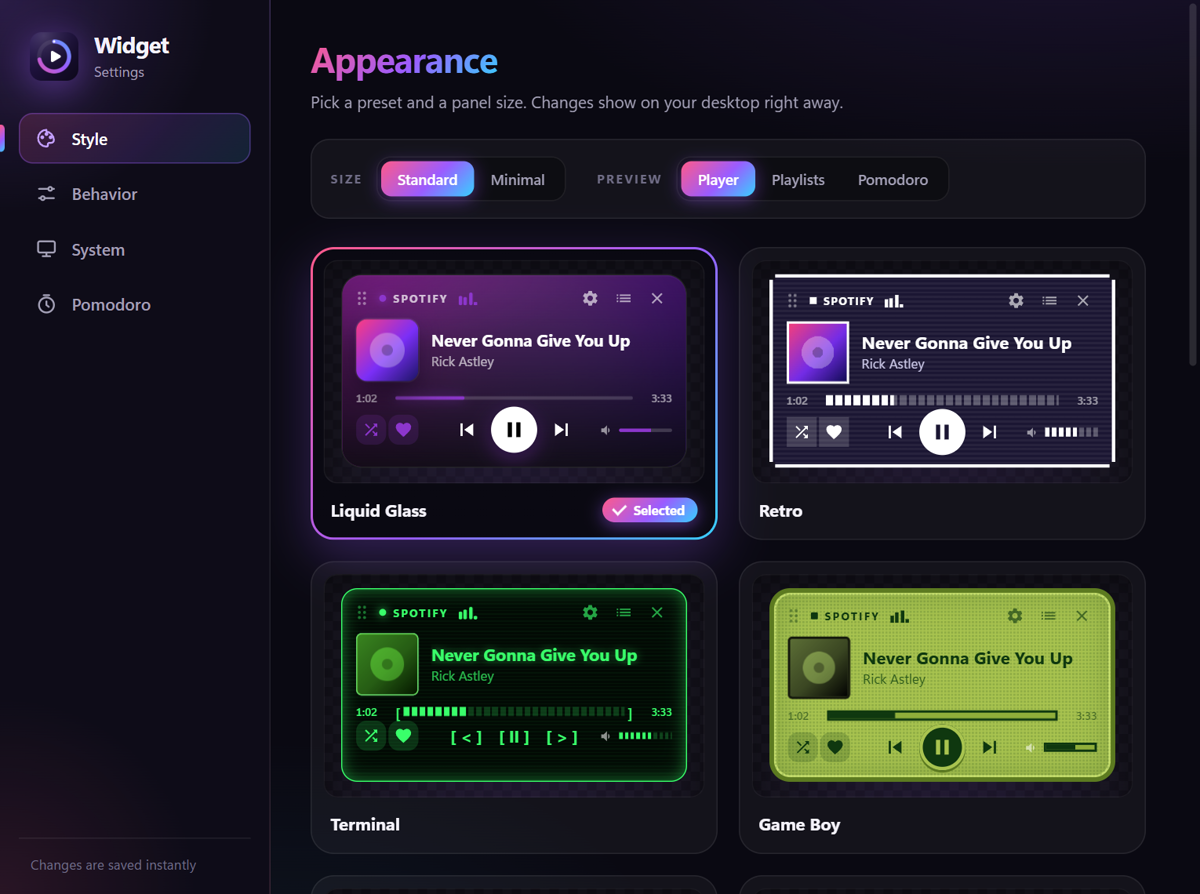
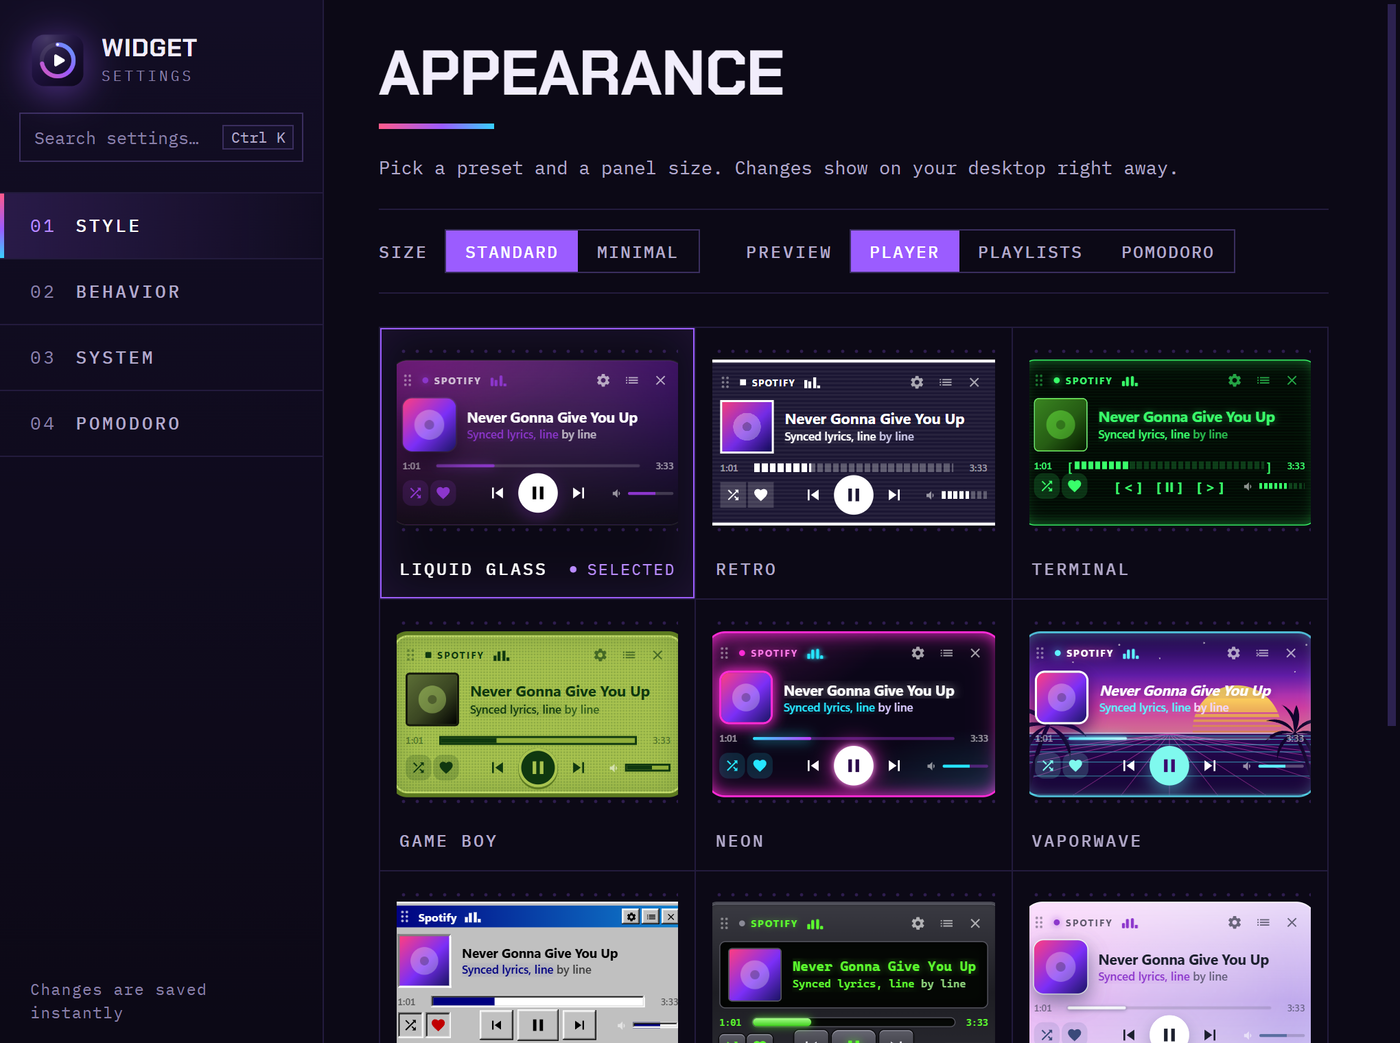
Refresh README with new hero image, lyrics and preset GIFs and settings screenshots
- new hero collage in the violet Signal brand and new screenshots of the redesigned settings window
- new lyrics.gif (word-by-word highlighting, long lines split into timed parts) and updated preset demo.gif
- updated English and Polish feature descriptions for synced lyrics
- demo images use placeholder lyric text, not real song lyrics

diff --git a/README.md b/README.md
@@ -6,7 +6,7 @@
 
 English · [Polski ↓](#polski)
 
-![Spotify Widget in four of its twelve styles](docs/img/hero.png)
+![Spotify Widget: a tiny always-on-top Spotify player, shown in six of its twelve styles](docs/img/hero.png)
 
 </div>
 
@@ -28,11 +28,15 @@ and **12 visual presets in 2 layouts**. It lives in the system tray, starts with
 - **Like button (♥)**: adds/removes the current track from your Liked Songs.
 - **12 styles × 2 layouts** (standard and minimal): Liquid Glass, Retro, Terminal, Game Boy, Neon, Vaporwave, Win98, Winamp, Glass, Y2K, Sakura, Higanbana.
 - **Pomodoro timer** that runs in the background, with presets (25/5, 45/15, 50/10, 90/20), sounds and optional focus music.
-- **Synced lyrics** (optional, off by default): the current line of the song replaces the artist line with a soft animation, fills with the accent colour in time with the music and scrolls when it is too long. Lyrics come from the free [LRCLIB](https://lrclib.net) service, which receives only the track name, artist, album and length. Turn it on in *Settings → Behavior*.
+- **Synced lyrics** (optional, off by default): the current line of the song shows under the title, animates in and lights up word by word in time with the music. Lines that do not fit are split into short parts that follow the song, so nothing is ever cut off. Lyrics come from the free [LRCLIB](https://lrclib.net) service, which receives only the track name, artist, album and length. Turn it on in *Settings → Behavior*.
 - **English and Polish** interface (switch it in *Settings → Behavior*).
 - **Tray icon**, always on top, launch with Windows, automatic updates from GitHub Releases.
 
-![Settings: appearance](docs/img/settings-appearance.png)
+![Synced lyrics in the minimal layout](docs/img/lyrics.gif)
+
+<sub>The GIF uses demo text, not real lyrics. With the option on, real songs show their own synced lyrics in exactly the same way.</sub>
+
+![Settings: appearance with live previews of every style](docs/img/settings-appearance.png)
 
 <table>
 <tr>
@@ -45,7 +49,16 @@ and **12 visual presets in 2 layouts**. It lives in the system tray, starts with
 </tr>
 </table>
 
-![Settings: Pomodoro](docs/img/settings-pomodoro.png)
+<table>
+<tr>
+<td><img src="docs/img/settings-behavior.png" alt="Settings: behavior"></td>
+<td><img src="docs/img/settings-pomodoro.png" alt="Settings: Pomodoro"></td>
+</tr>
+<tr>
+<td align="center">Behavior: language, synced lyrics, always on top</td>
+<td align="center">Pomodoro: times, sounds and focus music</td>
+</tr>
+</table>
 
 ## Install
 
@@ -138,7 +151,7 @@ Siedzi w zasobniku, startuje z Windowsem i sama się aktualizuje.
 - **Serduszko (♥)**: dodaje/usuwa bieżący utwór z polubionych.
 - **12 stylów × 2 układy** (standardowy i minimalistyczny): Liquid Glass, Retro, Terminal, Game Boy, Neon, Vaporwave, Win98, Winamp, Glass, Y2K, Sakura, Higanbana.
 - **Timer Pomodoro** działający w tle, z presetami (25/5, 45/15, 50/10, 90/20), dźwiękami i opcjonalną muzyką do pracy.
-- **Napisy do utworów** (opcjonalne, domyślnie wyłączone): aktualna linijka piosenki zastępuje wykonawcę, delikatnie się animuje, wypełnia kolorem akcentu w rytm muzyki i przesuwa się, gdy jest za długa. Teksty pochodzą z darmowej usługi [LRCLIB](https://lrclib.net), która dostaje tylko tytuł, wykonawcę, album i długość utworu. Włączysz je w *Ustawienia → Zachowanie*.
+- **Napisy do utworów** (opcjonalne, domyślnie wyłączone): aktualna linijka piosenki pokazuje się pod tytułem, delikatnie wjeżdża i zapala się słowo po słowie w rytm muzyki. Linijki, które się nie mieszczą, dzielą się na krótkie części zmieniane w rytm utworu, więc nic nie jest ucinane. Teksty pochodzą z darmowej usługi [LRCLIB](https://lrclib.net), która dostaje tylko tytuł, wykonawcę, album i długość utworu. Włączysz je w *Ustawienia → Zachowanie*.
 - **Interfejs po angielsku i polsku** (przełączasz w *Ustawienia → Zachowanie*).
 - **Ikona w zasobniku**, zawsze na wierzchu, start z Windowsem, autoaktualizacje z GitHub Releases.
 
